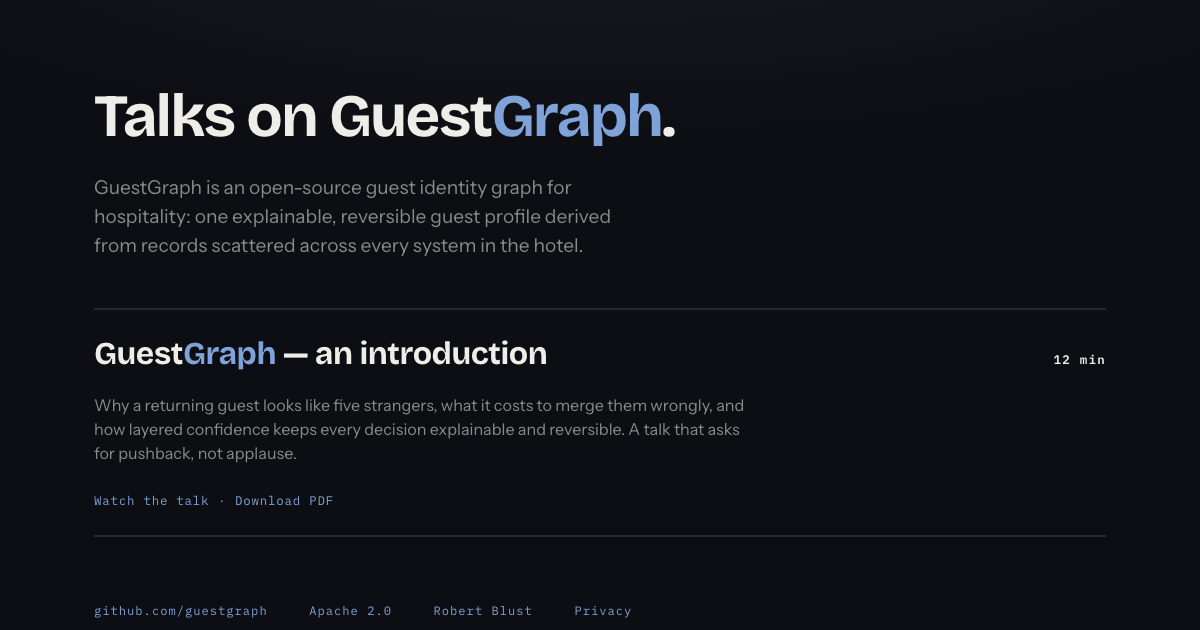
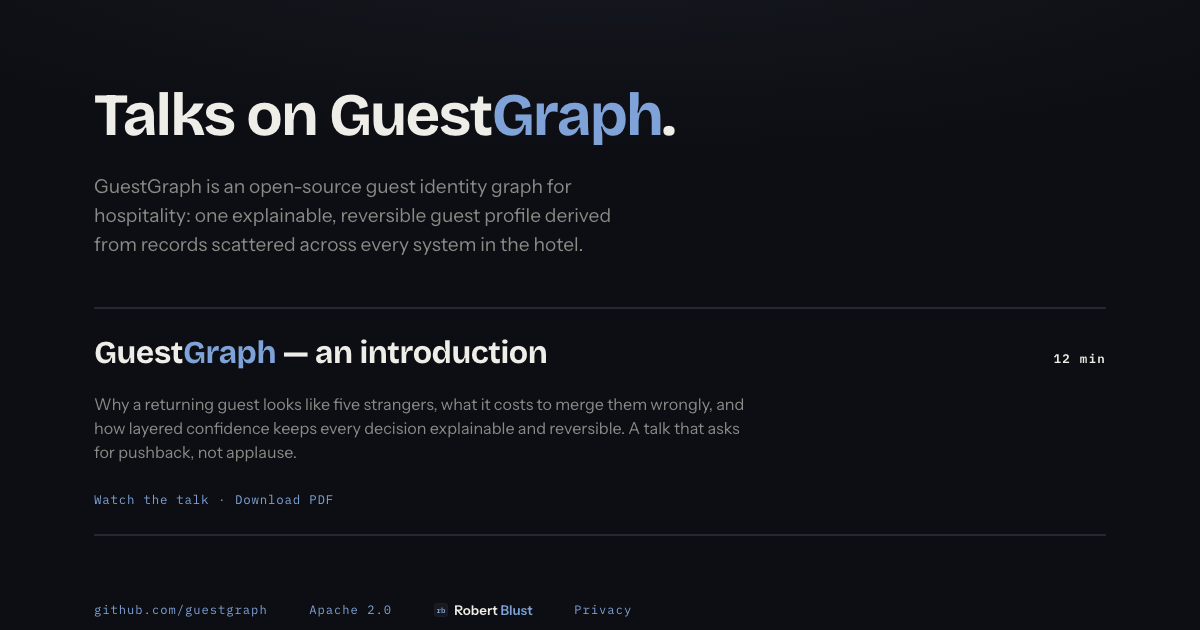
Give the footer credit the brand lockup, and teach the link checks to read German
The `blust.ch` credit in the page footer was plain mono text among the
repository URL and the licence. Mono on these sites means data, and a brand
is not data — it now takes the lockup it has on every deck: the rb plate
inlined, wordmark with the second word in --c-mid. The rest of the row stays
mono, because the rest of the row is data.

The prose mention on the privacy page stays a plain link. A mark belongs in
the footer row, not mid-sentence.

Separately, and the reason this took a second pass: the rendered DOM is only
ever one language. German lives in data-de as markup that does not exist
until a visitor switches, so noNewTab, sameTab, links and internalLinks were
inspecting the English half and nothing else.

The privacy page proves it. Its German credit kept target=_blank — in single
quotes, because it is nested inside an attribute — and survived both a
source-wide strip of the double-quoted form and the check itself. Every
suite was green over a link that opened a new tab for every German visitor.
It was found by reading the source, not by a failing test.

noNewTab now parses every [data-de] value into a template and inspects the
links inside it, reporting them with a [de] suffix. Proven by putting the
German-only attribute back: "must stay in this tab: https://blust.ch/ [de]".
Elements inside a slide are still exempt, in both languages.

diff --git a/privacy/index.html b/privacy/index.html
@@ -156,6 +156,21 @@
          font-family:"Plex Mono",monospace; font-size:.76rem; letter-spacing:.08em; color:var(--dim)}
   footer a{color:var(--c-mid); text-decoration:none}
   footer a:hover, footer a:focus-visible{text-decoration:underline}
+  /* The blust.ch credit is a brand, not a record value, so it leaves the footer's mono and
+     takes the lockup it has on every deck: the rb plate inlined, wordmark with the second
+     word in --c-mid. The rest of the row stays mono because the rest of the row is data —
+     a repository URL and a licence. */
+  footer .credit{display:inline-flex; align-items:center; gap:.5em; vertical-align:-.25em;
+                 font-family:"Instrument Sans", ui-sans-serif, system-ui, sans-serif;
+                 font-size:.84rem; letter-spacing:0; color:var(--ink)}
+  footer .credit .rbmark{display:flex}
+  footer .credit .rbmark svg{width:14px; height:14px; display:block}
+  footer .credit .plate{fill:var(--raise); stroke:var(--rule); stroke-width:1.5}
+  footer .credit .rb{fill:var(--c-mid)}
+  footer .credit b{font-weight:600}
+  footer .credit b em{font-style:normal; color:var(--c-mid)}
+  footer .credit:hover, footer .credit:focus-visible{text-decoration:none}
+  footer .credit:hover b em, footer .credit:focus-visible b em{color:var(--ink)}
   footer a[aria-current="page"]{color:var(--c-firm)}
 
   :focus-visible{outline:2px solid var(--c-mid); outline-offset:3px; border-radius:3px}
@@ -235,7 +250,7 @@
     <section>
       <h2 data-de="Wer das betreibt">Who runs this</h2>
       <div class="rules">
-        <p data-de="GuestGraph wird von <a href='https://blust.ch/' target='_blank' rel='noopener'>Robert Blust</a> gebaut und betrieben. Es ist keine Firma: eine Person, die offen arbeitet, mit der Engine unter Apache 2.0 für alle, die nachlesen wollen, was sie tatsächlich tut.">GuestGraph is built and run by <a href="https://blust.ch/">Robert Blust</a>. It is not a company: one person, working in the open, with the engine under Apache 2.0 for anyone who wants to read what it actually does.</p>
+        <p data-de="GuestGraph wird von <a href='https://blust.ch/'>Robert Blust</a> gebaut und betrieben. Es ist keine Firma: eine Person, die offen arbeitet, mit der Engine unter Apache 2.0 für alle, die nachlesen wollen, was sie tatsächlich tut.">GuestGraph is built and run by <a href="https://blust.ch/">Robert Blust</a>. It is not a company: one person, working in the open, with the engine under Apache 2.0 for anyone who wants to read what it actually does.</p>
         <p data-de="Ein Impressum gibt es noch nicht, und das ist Absicht statt Versäumnis: Es gibt hier nichts zu kaufen, also gibt es kein Geschäft, an das eines gehörte. Sobald der gehostete Dienst öffnet, kommt es — mit Name, Adresse und Kontakt, auf einer eigenen Seite, denn ein Impressum ist kein Datenschutz. Am selben Tag hört die Abrechnungsseite auf zu sagen, dass sie noch nicht offen ist.">There is no imprint yet, and that is deliberate rather than an omission: nothing here can be bought, so there is no transaction for one to belong to. When the hosted service opens it arrives — name, address and contact — on a page of its own, because an imprint is not a privacy note. The same day, the billing page stops saying it is not open.</p>
       </div>
     </section>
@@ -246,7 +261,7 @@
   <footer>
     <span><a href="https://github.com/guestgraph">github.com/guestgraph</a></span>
     <span><a href="https://github.com/guestgraph/engine/blob/HEAD/LICENSE">Apache 2.0</a></span>
-    <span><a href="https://blust.ch/">Robert Blust</a></span>
+    <span><a class="credit" href="https://blust.ch/"><span class="rbmark"><svg viewBox="0 0 32 32" aria-hidden="true"><rect class="plate" x=".75" y=".75" width="30.5" height="30.5" rx="7"/><text class="rb" x="16" y="22.5" text-anchor="middle" font-family="Plex Mono, ui-monospace, SFMono-Regular, Menlo, monospace" font-size="17" font-weight="600">rb</text></svg></span><b>Robert <em>Blust</em></b></a></span>
     <span><a href="./" aria-current="page" data-de="Datenschutz">Privacy</a></span>
   </footer>
 </div>

diff --git a/billing/index.html b/billing/index.html
@@ -160,6 +160,21 @@
          font-family:"Plex Mono",monospace; font-size:.76rem; letter-spacing:.08em; color:var(--dim)}
   footer a{color:var(--c-mid); text-decoration:none}
   footer a:hover, footer a:focus-visible{text-decoration:underline}
+  /* The blust.ch credit is a brand, not a record value, so it leaves the footer's mono and
+     takes the lockup it has on every deck: the rb plate inlined, wordmark with the second
+     word in --c-mid. The rest of the row stays mono because the rest of the row is data —
+     a repository URL and a licence. */
+  footer .credit{display:inline-flex; align-items:center; gap:.5em; vertical-align:-.25em;
+                 font-family:"Instrument Sans", ui-sans-serif, system-ui, sans-serif;
+                 font-size:.84rem; letter-spacing:0; color:var(--ink)}
+  footer .credit .rbmark{display:flex}
+  footer .credit .rbmark svg{width:14px; height:14px; display:block}
+  footer .credit .plate{fill:var(--raise); stroke:var(--rule); stroke-width:1.5}
+  footer .credit .rb{fill:var(--c-mid)}
+  footer .credit b{font-weight:600}
+  footer .credit b em{font-style:normal; color:var(--c-mid)}
+  footer .credit:hover, footer .credit:focus-visible{text-decoration:none}
+  footer .credit:hover b em, footer .credit:focus-visible b em{color:var(--ink)}
 
   :focus-visible{outline:2px solid var(--c-mid); outline-offset:3px; border-radius:3px}
 
@@ -252,7 +267,7 @@
   <footer>
     <span><a href="https://github.com/guestgraph">github.com/guestgraph</a></span>
     <span><a href="https://github.com/guestgraph/engine/blob/HEAD/LICENSE">Apache 2.0</a></span>
-    <span><a href="https://blust.ch/">Robert Blust</a></span>
+    <span><a class="credit" href="https://blust.ch/"><span class="rbmark"><svg viewBox="0 0 32 32" aria-hidden="true"><rect class="plate" x=".75" y=".75" width="30.5" height="30.5" rx="7"/><text class="rb" x="16" y="22.5" text-anchor="middle" font-family="Plex Mono, ui-monospace, SFMono-Regular, Menlo, monospace" font-size="17" font-weight="600">rb</text></svg></span><b>Robert <em>Blust</em></b></a></span>
     <span><a href="../privacy/" data-de="Datenschutz">Privacy</a></span>
   </footer>
 </div>

diff --git a/talks/index.html b/talks/index.html
@@ -133,6 +133,21 @@
          font-family:"Plex Mono",monospace; font-size:.76rem; letter-spacing:.08em; color:var(--dim)}
   footer a{color:var(--c-mid); text-decoration:none}
   footer a:hover, footer a:focus-visible{text-decoration:underline}
+  /* The blust.ch credit is a brand, not a record value, so it leaves the footer's mono and
+     takes the lockup it has on every deck: the rb plate inlined, wordmark with the second
+     word in --c-mid. The rest of the row stays mono because the rest of the row is data —
+     a repository URL and a licence. */
+  footer .credit{display:inline-flex; align-items:center; gap:.5em; vertical-align:-.25em;
+                 font-family:"Instrument Sans", ui-sans-serif, system-ui, sans-serif;
+                 font-size:.84rem; letter-spacing:0; color:var(--ink)}
+  footer .credit .rbmark{display:flex}
+  footer .credit .rbmark svg{width:14px; height:14px; display:block}
+  footer .credit .plate{fill:var(--raise); stroke:var(--rule); stroke-width:1.5}
+  footer .credit .rb{fill:var(--c-mid)}
+  footer .credit b{font-weight:600}
+  footer .credit b em{font-style:normal; color:var(--c-mid)}
+  footer .credit:hover, footer .credit:focus-visible{text-decoration:none}
+  footer .credit:hover b em, footer .credit:focus-visible b em{color:var(--ink)}
 
   :focus-visible{outline:2px solid var(--c-mid); outline-offset:3px; border-radius:3px}
 
@@ -189,7 +204,7 @@
   <footer>
     <span><a href="https://github.com/guestgraph">github.com/guestgraph</a></span>
     <span><a href="https://github.com/guestgraph/engine/blob/HEAD/LICENSE">Apache 2.0</a></span>
-    <span><a href="https://blust.ch/">Robert Blust</a></span>
+    <span><a class="credit" href="https://blust.ch/"><span class="rbmark"><svg viewBox="0 0 32 32" aria-hidden="true"><rect class="plate" x=".75" y=".75" width="30.5" height="30.5" rx="7"/><text class="rb" x="16" y="22.5" text-anchor="middle" font-family="Plex Mono, ui-monospace, SFMono-Regular, Menlo, monospace" font-size="17" font-weight="600">rb</text></svg></span><b>Robert <em>Blust</em></b></a></span>
     <span><a href="../privacy/" data-de="Datenschutz">Privacy</a></span>
   </footer>
 </div>

diff --git a/index.html b/index.html
@@ -186,6 +186,21 @@
          font-family:"Plex Mono",monospace; font-size:.76rem; letter-spacing:.08em; color:var(--dim)}
   footer a{color:var(--c-mid); text-decoration:none}
   footer a:hover, footer a:focus-visible{text-decoration:underline}
+  /* The blust.ch credit is a brand, not a record value, so it leaves the footer's mono and
+     takes the lockup it has on every deck: the rb plate inlined, wordmark with the second
+     word in --c-mid. The rest of the row stays mono because the rest of the row is data —
+     a repository URL and a licence. */
+  footer .credit{display:inline-flex; align-items:center; gap:.5em; vertical-align:-.25em;
+                 font-family:"Instrument Sans", ui-sans-serif, system-ui, sans-serif;
+                 font-size:.84rem; letter-spacing:0; color:var(--ink)}
+  footer .credit .rbmark{display:flex}
+  footer .credit .rbmark svg{width:14px; height:14px; display:block}
+  footer .credit .plate{fill:var(--raise); stroke:var(--rule); stroke-width:1.5}
+  footer .credit .rb{fill:var(--c-mid)}
+  footer .credit b{font-weight:600}
+  footer .credit b em{font-style:normal; color:var(--c-mid)}
+  footer .credit:hover, footer .credit:focus-visible{text-decoration:none}
+  footer .credit:hover b em, footer .credit:focus-visible b em{color:var(--ink)}
 
   :focus-visible{outline:2px solid var(--c-mid); outline-offset:3px; border-radius:3px}
 
@@ -291,7 +306,7 @@
   <footer>
     <span><a href="https://github.com/guestgraph">github.com/guestgraph</a></span>
     <span><a href="https://github.com/guestgraph/engine/blob/HEAD/LICENSE">Apache 2.0</a></span>
-    <span><a href="https://blust.ch/">Robert Blust</a></span>
+    <span><a class="credit" href="https://blust.ch/"><span class="rbmark"><svg viewBox="0 0 32 32" aria-hidden="true"><rect class="plate" x=".75" y=".75" width="30.5" height="30.5" rx="7"/><text class="rb" x="16" y="22.5" text-anchor="middle" font-family="Plex Mono, ui-monospace, SFMono-Regular, Menlo, monospace" font-size="17" font-weight="600">rb</text></svg></span><b>Robert <em>Blust</em></b></a></span>
     <span><a href="privacy/" data-de="Datenschutz">Privacy</a></span>
   </footer>
 </div>

diff --git a/CLAUDE.md b/CLAUDE.md
@@ -133,6 +133,18 @@ two-file obligation, which is the point.
 
   `verify/design.mjs` is byte-identical across the three and holds both `TOKEN_VERSION` and
   `FOOTER_VERSION`. Never edit it in one repo alone.
+- **The `blust.ch` credit in the page footer is a lockup, not a footer link.** It leaves the
+  footer's mono for the same treatment it has on every deck — the `rb` plate inlined, wordmark
+  with the second word in `--c-mid`. The rest of the row stays mono because the rest of the row
+  is data: a repository URL and a licence. A prose mention of the name inside a sentence stays
+  a plain link — the mark belongs in the footer row, not mid-paragraph.
+- **A link check that trusts the DOM inspects half the site.** The rendered DOM is only ever
+  one language; German lives in `data-de` as markup that does not exist until a visitor
+  switches. The privacy page's German credit kept `target='_blank'` — in single quotes, because
+  it is nested inside an attribute — and survived both a source-wide strip and the check.
+  `noNewTab` now parses every `[data-de]` value and reports what it finds with a `[de]` suffix;
+  any new link check must do the same. A translated link and its English original are two
+  separate attributes and nothing pairs them.
 - **Self-contained. No external asset at all** — the fonts are served from `fonts/`, and
   nothing else is fetched off-origin. Reference them relatively (`../fonts/…` from
   `billing/`): a root-absolute path works on the domain and breaks under `file://`, which
